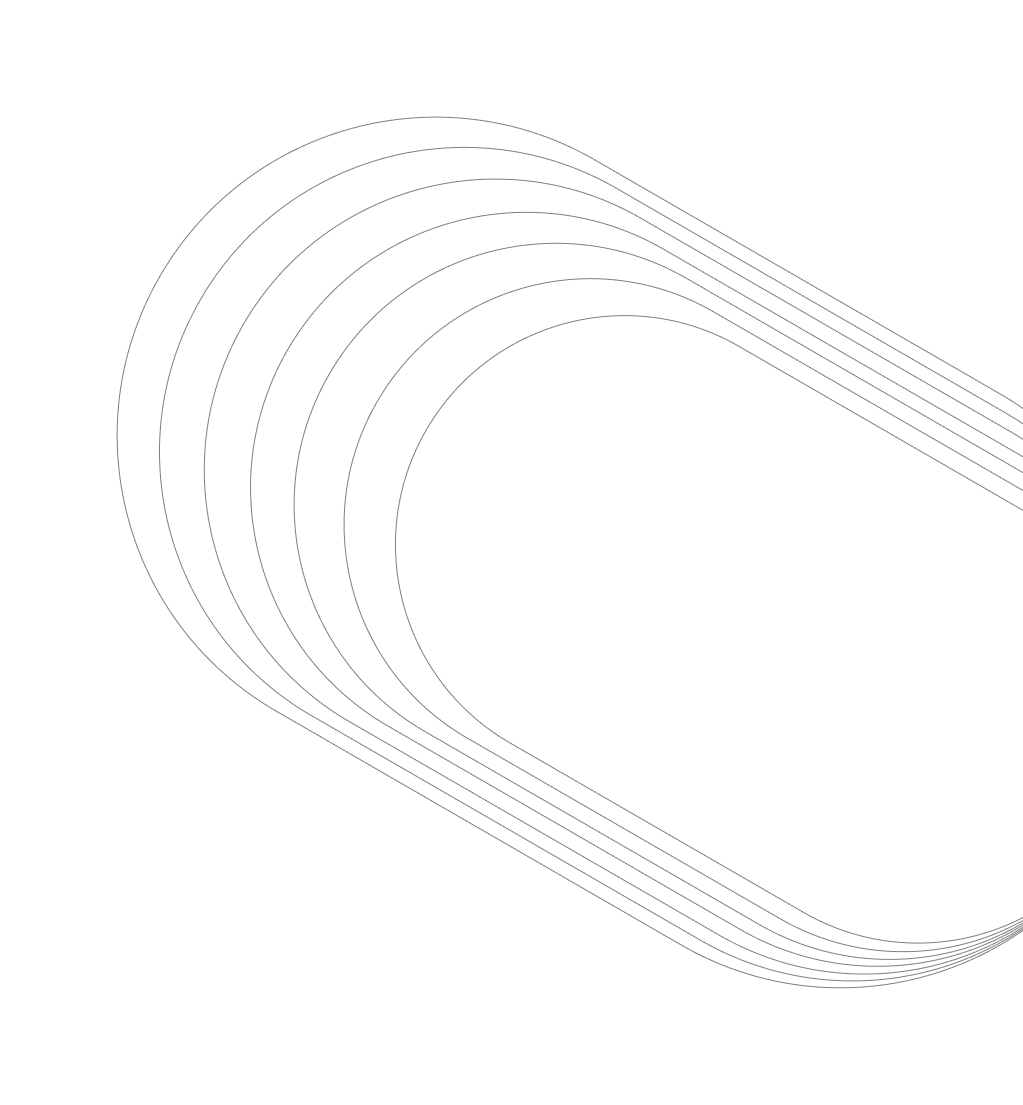
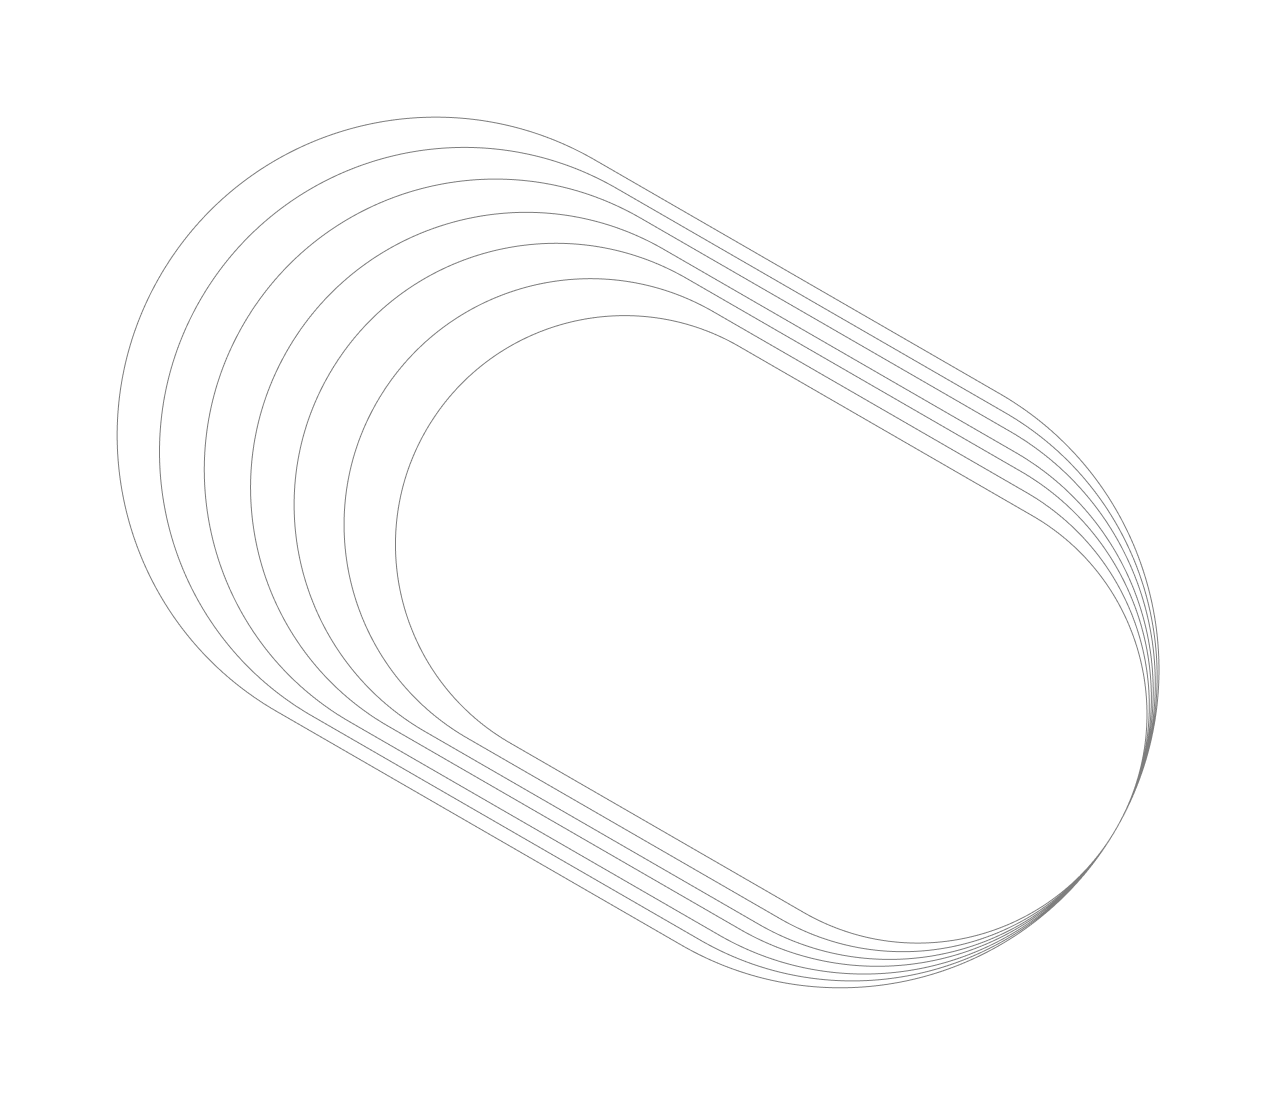
update: bg

diff --git a/src/components/Home/HomeBg/index.styles.ts b/src/components/Home/HomeBg/index.styles.ts
@@ -3,6 +3,7 @@ import { ZIndex } from "@/styles/theme/ZIndex";
 import { Breakpoints } from "@/styles/theme/Breakpoints";
 
 const ContainerSC = styled("div")`
+  overflow: hidden;
   width: 100%;
   height: 1016px;
 
@@ -34,7 +35,7 @@ const BgSC = styled("div")`
   height: 1106px;
 
   position: absolute;
-  right: 0;
+  right: -250px;
   top: 0;
   z-index: ${ZIndex.HIDDEN};
 
@@ -48,6 +49,7 @@ const BgSC = styled("div")`
 
   @media (max-width: ${Breakpoints.MOBILE}px) {
     height: 313px;
+    right: 0px;
     background-size: auto;
     background-image: url("/assets/images/HomeMobileBg.png");
   }
